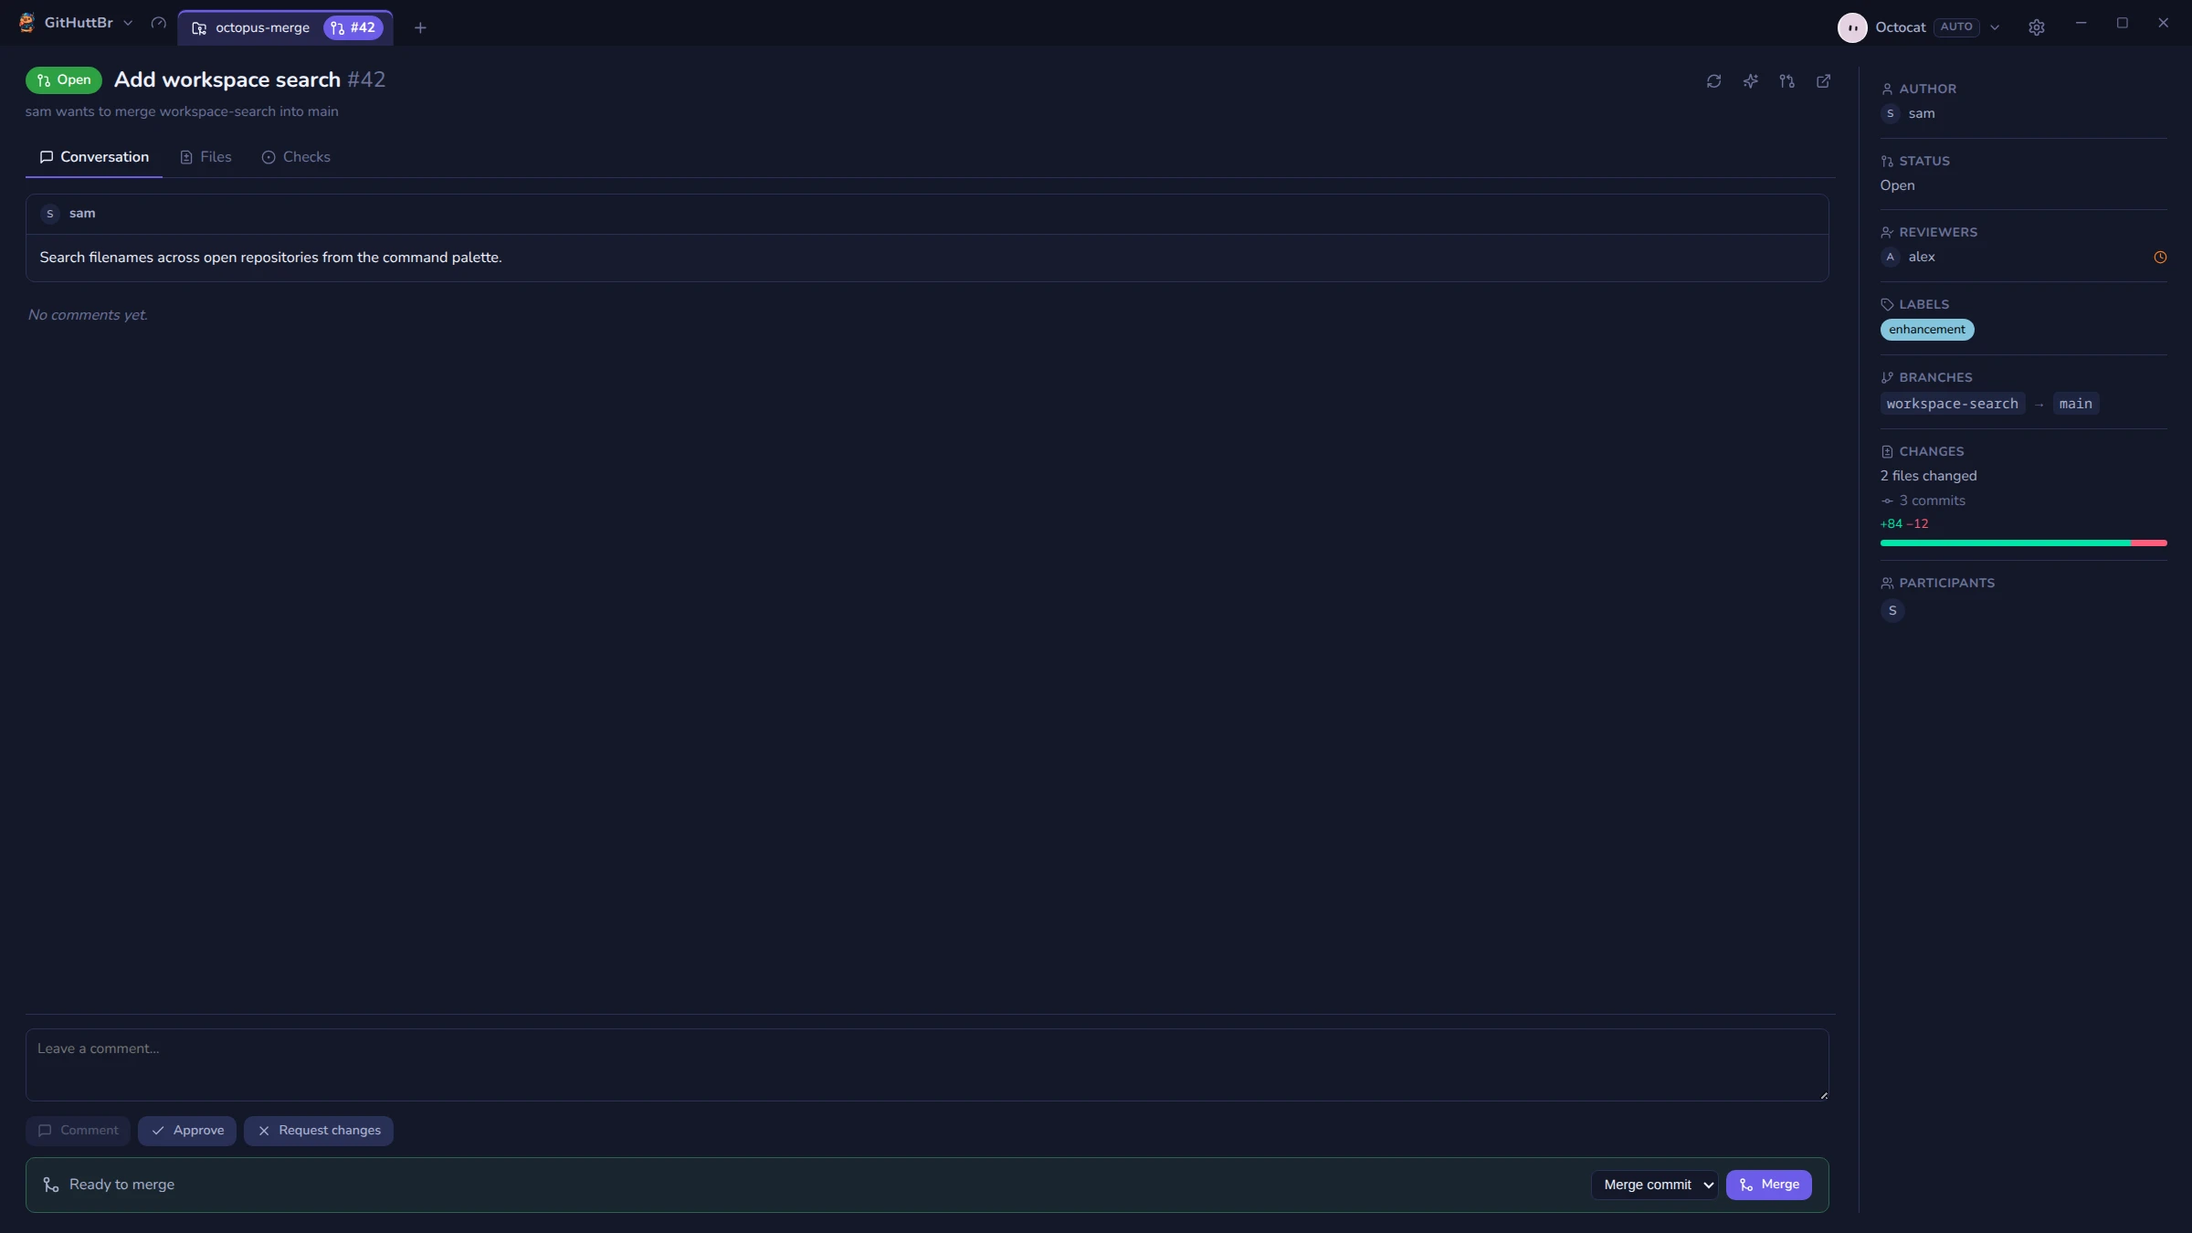
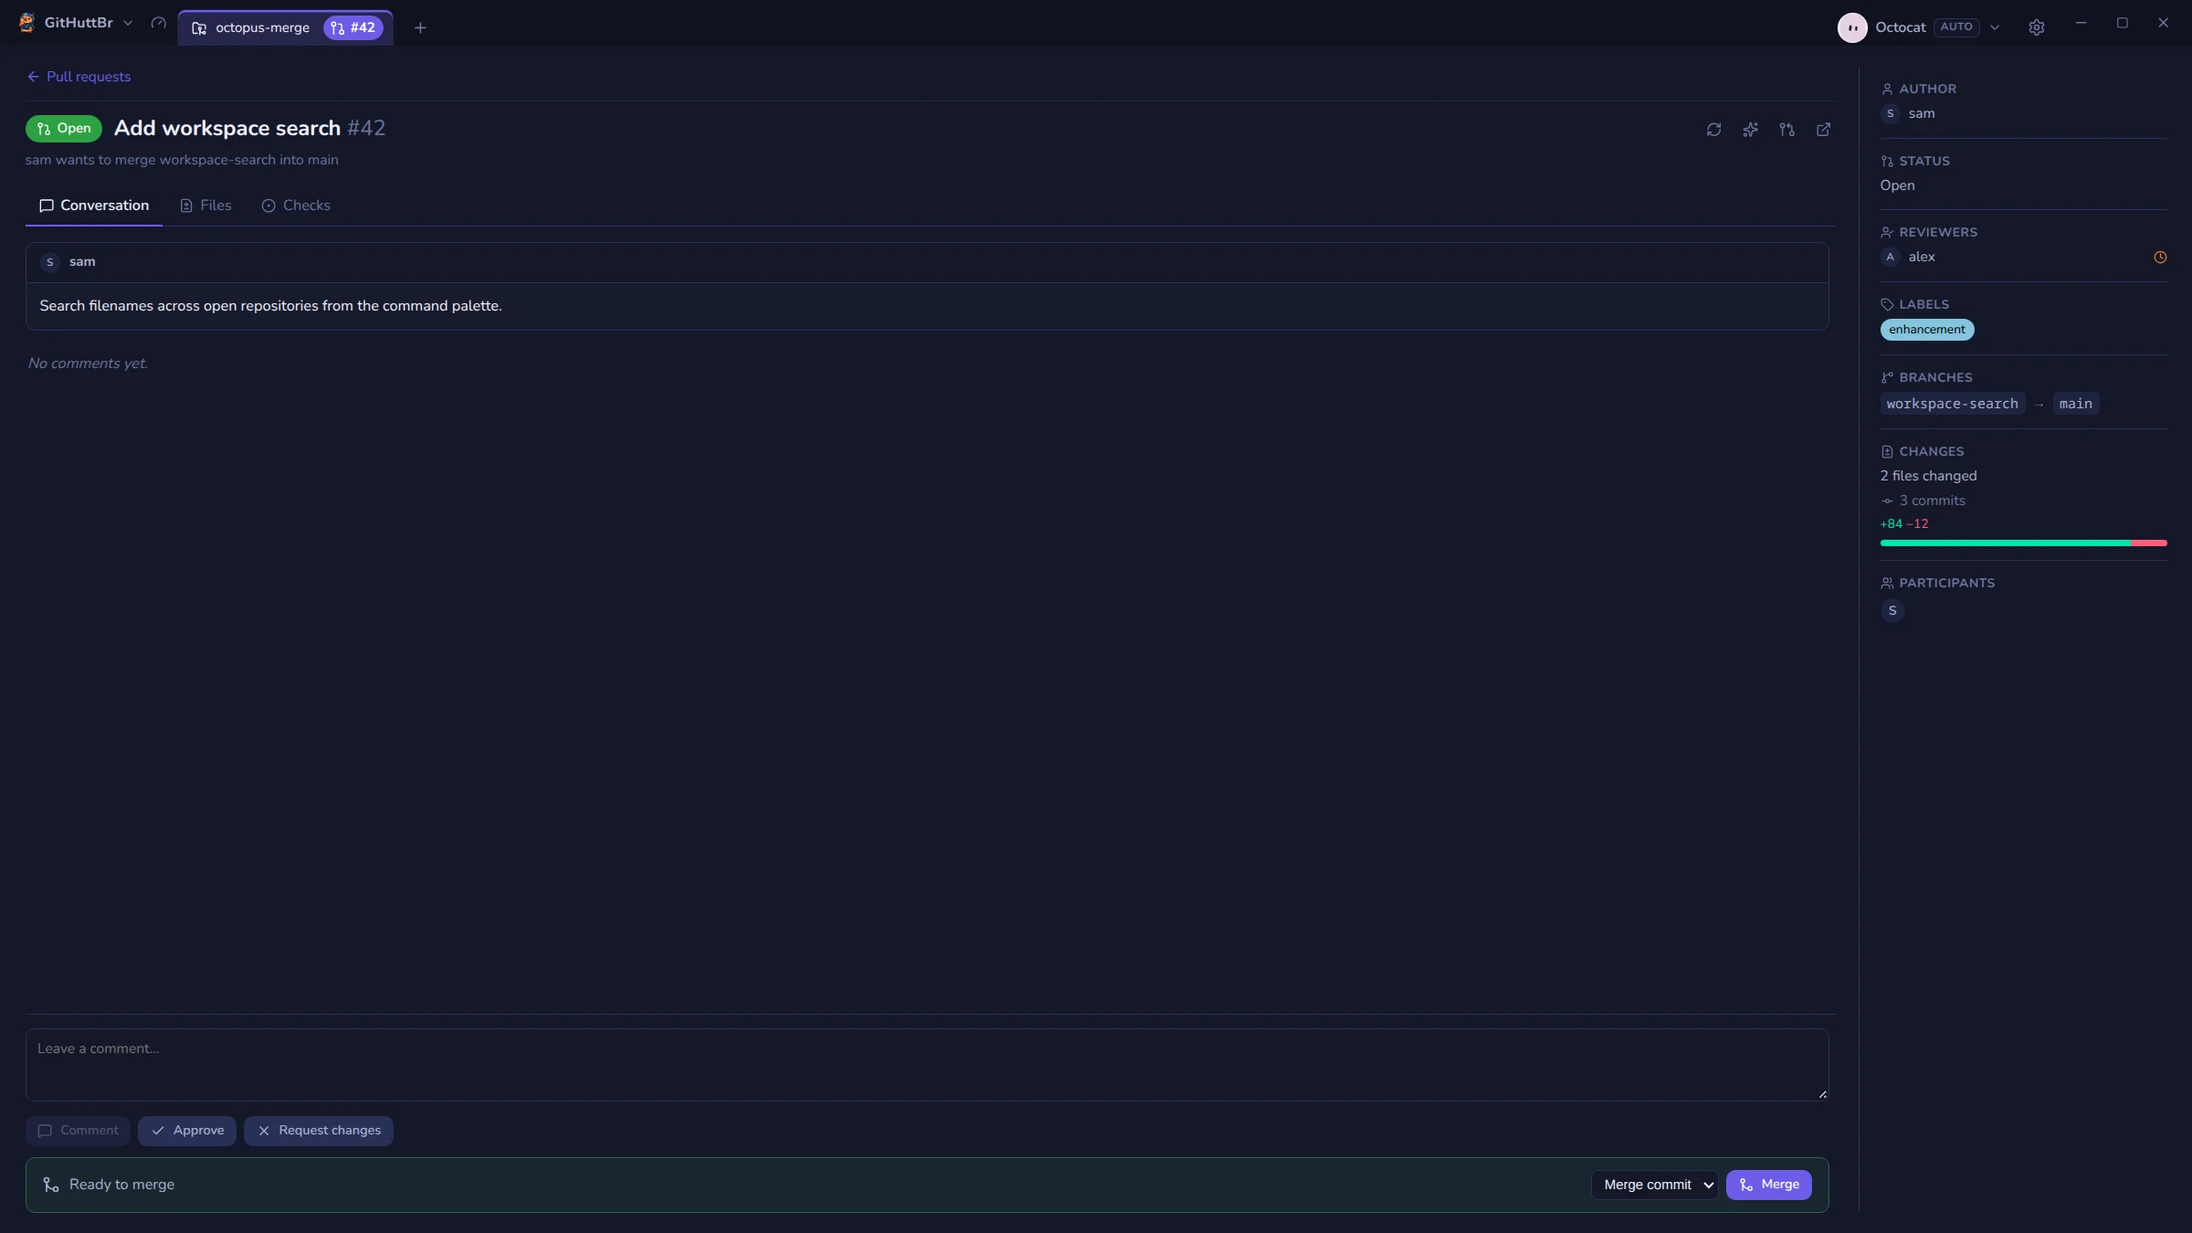
docs(prs): handbook page and screenshots for the pull requests page
What the page solves, its tabs, filters and columns, who "me" is, walking a
filtered list from inside a PR, and each host's limits — in English and
Brazilian Portuguese. Mapped in docs-map, one README line. Two shots against
a fictional GitHub repository answered by main (no network): the list
searched for "pix", and a PR opened from it with ‹ 1 of 4 ›. The PR page shot
is retaken, since its header now has the strip.

Changed region(s): [[0.0, 0.0311, 0.2188, 0.3111]]

diff --git a/docs/help/pt-BR/pull-requests.md b/docs/help/pt-BR/pull-requests.md
@@ -1,0 +1,136 @@
+---
+title: Página de pull requests
+category: Sincronização e vários repositórios
+order: 57
+summary: Todos os pull requests de um repositório numa página — por estado, filtrados por autor, revisor, destino e CI — e ‹ › para percorrer a lista filtrada de dentro de um PR.
+keywords: pull requests lista página merge requests pr mr filtro autor revisor meus aguardando minha revisão revisão pedida ci falhando branch de destino rascunhos mesclados fechados busca triagem anterior próximo alt seta navegação
+source: b44a68b542915dbac197b918b6b89d1e7de48c21
+---
+
+# Página de pull requests
+
+Um repositório movimentado tem vinte pull requests abertos ao mesmo tempo. A
+barra lateral lista todos, mas uma linha para cada um diz pouco: de quem é
+cada um, quais esperam por você, quais ficaram vermelhos. Descobrir isso
+significava abrir cada um, ler, voltar, abrir o próximo. A **página de pull
+requests** responde a essas perguntas numa tela só e, depois que você abre um
+pull request, **‹ ›** levam ao próximo da mesma lista sem precisar voltar.
+
+![A página de pull requests buscando "pix": os trechos encontrados destacados, os seus marcados com "você", um CI falhando e um rascunho](../../screenshots/pull-requests.webp)
+
+## Como abrir
+
+- O **ícone de lista** no cabeçalho **PULL REQUESTS** da barra lateral (*Ver
+  todos os pull requests*).
+- *Pull requests…* na paleta de comandos (⌘K), ou **Ferramentas → Pull
+  requests…**.
+
+Como a wiki e as [execuções de CI](ci-runs.md), a página fica presa à aba do
+repositório.
+
+## Abas
+
+| Aba | O que mostra |
+|---|---|
+| **Abertos** | Todos os pull requests abertos, rascunhos incluídos |
+| **Rascunhos** | Só os abertos marcados como rascunho |
+| **Mesclados** | Pull requests mesclados, lidos quando você abre a aba pela primeira vez |
+| **Fechados** | Fechados sem mesclar (recusados, abandonados), lidos junto com os Mesclados |
+
+As contagens de Abertos e Rascunhos vêm da lista que a barra lateral já tem.
+Mesclados e Fechados só são pedidos quando você abre uma dessas abas, e uma vez
+por sessão; **Atualizar** pede de novo.
+
+## Filtros
+
+| Filtro | Mantém |
+|---|---|
+| **Buscar** | Pull requests cujo título, descrição, branches ou número contêm todas as palavras digitadas. `#482` ou `482` encontra esse número; os trechos encontrados ficam destacados no título |
+| **Autor** | Um autor — cada um com quantos tem nesta aba. **Eu** vem primeiro |
+| **Revisor** | Um revisor pedido, ou **Pedem minha revisão** |
+| **Branch de destino** | Pull requests para essa branch |
+| **Meus** | Atalho para *Autor: Eu* |
+| **Aguardando minha revisão** | Atalho para *Revisor: pedem minha revisão* |
+| **CI falhando** | Pull requests cujos checks no head falharam |
+
+A linha abaixo dos filtros diz quantos pull requests da aba aparecem e quais
+filtros estão ligados, com **limpar filtros** para tirar todos.
+
+Os filtros ficam guardados por repositório **enquanto o app está aberto** — saia
+da página, volte, e estão como você deixou. Eles não são salvos entre
+reinícios de propósito: um filtro "meus, CI falhando" restaurado em silêncio uma
+semana depois esconderia pull requests que você não pediu para esconder.
+
+### Quem é "eu"
+
+"Eu" é a conta com que as chamadas deste repositório entram no host — o perfil
+a que o repositório está [vinculado](profiles.md), senão o ativo — perguntada
+ao próprio host. Quando o token não sabe dizer quem é (sem escopo de usuário),
+ou não há token, **Eu**, **Meus** e **Aguardando minha revisão** não aparecem.
+
+## A lista
+
+| Coluna | O que mostra |
+|---|---|
+| **#** | O número, com um ícone de aberto, rascunho, mesclado ou fechado |
+| **Título** | O título, um selo *rascunho* e quem ainda tem revisão pedida — na cor de destaque quando é você |
+| **Autor** | A foto do host, quando ele dá uma, senão a inicial, e **você** nos seus |
+| **Branches** | Origem → destino |
+| **Checks** | Os checks do head resumidos — `6/6`, `1 falhou`, `2 rodando`; passe o mouse para ver as contagens |
+| **Atualizado** | Há quanto tempo mudou pela última vez; passe o mouse para ver a data |
+
+As linhas são ordenadas pela atividade mais recente. Um clique abre a página do
+próprio pull request ([Hosting e pull requests](hosting.md)). Num host sem essa
+página, a linha abre o pull request no navegador.
+
+Num [checkout de fork](hosting.md#your-pull-requests-on-the-parent-of-a-fork),
+os seus pull requests no repositório pai também aparecem, marcados *em
+dono/repo*.
+
+## Percorrer a lista a partir de um pull request
+
+![Um pull request aberto da lista filtrada: ‹ 1 de 4 › e os filtros de onde veio](../../screenshots/pull-request-nav.webp)
+
+Um pull request aberto pela página mostra uma faixa acima do título:
+
+- **← Pull requests** volta para a lista, com os filtros como você deixou.
+- **‹ k de n ›** vai para o pull request anterior ou seguinte da lista de onde
+  você o abriu — a lista filtrada, na ordem dela, como estava no clique. As
+  dicas dizem para qual pull request cada seta leva.
+- **Alt+← / Alt+→** fazem o mesmo pelo teclado. Dá para trocar os atalhos em
+  **Configurações → Atalhos**. Eles ficam de lado enquanto o cursor está num
+  campo de texto (onde Option+← pula palavras) e enquanto o terminal tem o foco.
+
+Andar substitui a página no lugar, então passar por dez pull requests não deixa
+dez ícones na aba; abrir outra linha da lista também a substitui.
+
+Um pull request aberto **de qualquer outro lugar** — a barra lateral, uma
+notificação — percorre os pull requests abertos do repositório na ordem padrão
+da página (Abertos, sem filtros). Um que também não está nessa lista, como um
+nível mesclado de uma pilha, mostra só o caminho de volta para a lista.
+
+## Limites
+
+- **Os pull requests abertos são a lista da barra lateral.** GitHub, GitLab e
+  bitbucket.org leem os 30 primeiros; um repositório com mais mostra só esses.
+  Azure DevOps, Bitbucket Data Center e Forgejo leem todos.
+- **Mesclados e fechados são os 100 com atividade mais recente de cada** (no
+  GitHub, dos dois juntos). A aba avisa quando o host tem mais; o site dele lista
+  todos. Os checks deles não são lidos — o CI de um pull request encerrado não
+  decide mais nada, e custaria uma requisição por linha.
+- **Checks**: GitHub e Bitbucket Data Center já os trazem na lista. GitLab,
+  Azure DevOps e Forgejo são consultados uma vez por head quando a página abre,
+  pelo mesmo cache dos selos de CI do grafo. bitbucket.org não tem.
+- **Revisores**: GitHub, GitLab, Forgejo, Bitbucket Data Center e Azure DevOps
+  dizem quem ainda tem revisão pedida (Azure: uma pessoa que ainda não votou;
+  equipes ficam de fora). A lista do bitbucket.org não diz, então o filtro de
+  Revisor fica vazio lá.
+- **A busca na descrição** funciona quando a lista do host traz a descrição;
+  o bitbucket.org pode deixá-la de fora, e aí só títulos, branches e números
+  entram na busca.
+- **"Eu" no bitbucket.org e no Azure DevOps** é comparado pelo nome de
+  exibição, porque é assim que as listas deles nomeiam o autor.
+- **Atualizado no Azure DevOps** é quando o pull request foi aberto (ou
+  fechado): a lista dele não tem hora da última atividade.
+- O percurso fica guardado enquanto o app está aberto; depois de reiniciar, um
+  pull request aberto da lista percorre os pull requests abertos.

diff --git a/docs/help/pull-requests.md b/docs/help/pull-requests.md
@@ -1,0 +1,132 @@
+---
+title: Pull requests page
+category: Sync & many repos
+order: 57
+summary: Every pull request of a repository on one page — by state, filtered by author, reviewer, target and CI — and ‹ › to walk the filtered list from inside a PR.
+keywords: pull requests list page merge requests pr mr filter author reviewer mine awaiting my review review requested ci failing target branch drafts merged closed search triage previous next alt arrow navigation
+---
+
+# Pull requests page
+
+A busy repository has twenty pull requests open at once. The sidebar lists
+them, but one line each says little: whose is which, which wait on you, which
+went red. Finding out meant opening each one, reading it, going back, opening
+the next. The **pull requests page** answers those questions on one screen, and
+once you open a pull request, **‹ ›** take you to the next one of the same list
+without going back.
+
+![The pull requests page searched for "pix": the matches highlighted, your own marked "you", a failing CI and a draft](../screenshots/pull-requests.webp)
+
+## Opening it
+
+- The **list icon** on the sidebar's **PULL REQUESTS** header (*See all pull
+  requests*).
+- *Pull requests…* in the command palette (⌘K), or **Tools → Pull requests…**.
+
+Like the wiki and [CI runs](ci-runs.md), the page rides on the repository's tab.
+
+## Tabs
+
+| Tab | What it holds |
+|---|---|
+| **Open** | Every open pull request, drafts included |
+| **Drafts** | Only the open ones marked as drafts |
+| **Merged** | Merged pull requests, read when you first open the tab |
+| **Closed** | Closed without merging (declined, abandoned), read with Merged |
+
+The counts beside Open and Drafts come from the list the sidebar already holds.
+Merged and Closed are asked for only when you open one of them, and once per
+session; **Refresh** asks again.
+
+## Filters
+
+| Filter | Keeps |
+|---|---|
+| **Search** | Pull requests whose title, description, branches or number contain every word typed. `#482` or `482` finds that number; matches are highlighted in the title |
+| **Author** | One author — each listed with how many it has in this tab. **Me** is first |
+| **Reviewer** | One requested reviewer, or **Review requested from me** |
+| **Target branch** | Pull requests into that branch |
+| **Mine** | A shortcut for *Author: Me* |
+| **Awaiting my review** | A shortcut for *Reviewer: review requested from me* |
+| **CI failing** | Pull requests whose head's checks failed |
+
+The line under the filters says how many of the tab's pull requests are shown
+and which filters are on, with **clear filters** to drop them all.
+
+Filters are kept per repository **while the app runs** — leave the page, come
+back, they are as you left them. They are not saved across restarts on
+purpose: a "mine, CI failing" filter brought back silently a week later would
+hide pull requests you did not ask to hide.
+
+### Who "me" is
+
+"Me" is the account this repository's calls sign in as on the host — the
+profile the repository is [bound to](profiles.md), else the active one — asked
+of the host itself. When the token cannot say who it is (no user scope), or
+there is no token, **Me**, **Mine** and **Awaiting my review** are not offered.
+
+## The list
+
+| Column | What it shows |
+|---|---|
+| **#** | The number, with an icon for open, draft, merged or closed |
+| **Title** | The title, a *draft* badge, and who is still asked to review — in the accent colour when it is you |
+| **Author** | The host's picture where it gives one, else the initial, and **you** on your own |
+| **Branches** | Source → target |
+| **Checks** | The head's checks rolled up — `6/6`, `1 failed`, `2 running`; hover for the counts |
+| **Updated** | How long ago it last changed; hover for the date |
+
+Rows are sorted by the latest activity. A click opens the pull request's own
+page ([Hosting & pull requests](hosting.md)). On a host without that page, the
+row opens the pull request in the browser.
+
+In a [fork checkout](hosting.md#your-pull-requests-on-the-parent-of-a-fork), your pull requests on the parent are listed
+too, marked *on owner/repo*.
+
+## Walking the list from a pull request
+
+![A pull request opened from the filtered list: ‹ 1 of 4 › and the filters it came from](../screenshots/pull-request-nav.webp)
+
+A pull request opened from the page shows a strip above its title:
+
+- **← Pull requests** goes back to the list, filters as you left them.
+- **‹ k of n ›** moves to the previous or next pull request of the list you
+  opened it from — the filtered list, in its order, as it was when you clicked.
+  The tooltips name the pull request each arrow leads to.
+- **Alt+← / Alt+→** do the same from the keyboard. They are rebindable in
+  **Settings → Shortcuts**. They stand aside while the caret is in a text field
+  (where Option+← moves by word) and while the terminal has the focus.
+
+Moving replaces the page in place, so stepping through ten pull requests does
+not leave ten icons on the tab; opening another row from the list replaces it
+too.
+
+A pull request opened **from anywhere else** — the sidebar, a notification —
+walks the repository's open pull requests in the page's default order (Open,
+no filters). One that is not on that list either, such as a merged level of a
+stack, shows only the way back to the list.
+
+## Limits
+
+- **Open pull requests are the sidebar's list.** GitHub, GitLab and
+  bitbucket.org read the first 30; a repository with more shows only those.
+  Azure DevOps, Bitbucket Data Center and Forgejo read them all.
+- **Merged and closed are the 100 most recently active of each** (GitHub: of
+  both together). The tab says when the host has more; its website lists them
+  all. Their checks are not read — a finished pull request's CI decides nothing,
+  and it would cost a request per row.
+- **Checks**: GitHub and Bitbucket Data Center carry them in the list. GitLab,
+  Azure DevOps and Forgejo are asked once per head when the page opens, through
+  the same cache as the graph's CI badges. bitbucket.org has none.
+- **Reviewers**: GitHub, GitLab, Forgejo, Bitbucket Data Center and Azure DevOps
+  name who is still asked (Azure: a person who has not voted; a team is left
+  out). bitbucket.org's list does not say, so the Reviewer filter is empty there.
+- **Description search** works where the host's list carries the description;
+  bitbucket.org may leave it out, and then only titles, branches and numbers
+  are searched.
+- **"Me" on bitbucket.org and Azure DevOps** is matched by display name, since
+  that is how their lists name an author.
+- **Updated on Azure DevOps** is when the pull request was opened (or closed):
+  its list has no last-activity time.
+- The walk is remembered while the app runs; after a restart, a pull request
+  opened from the list walks the open pull requests instead.

diff --git a/README.md b/README.md
@@ -135,6 +135,7 @@ git actually is.
 | **[Untracked-branch repair](docs/help/syncing.md)** | A pull that stops on "no tracking information" offers the fix as a button — link the branch to its remote, or push it if the remote has never seen it. |
 | **[Pull requests](docs/help/hosting.md)** | Create on GitHub, GitLab, Bitbucket, Azure DevOps and Forgejo, with [reviewers, assignees and labels](docs/help/hosting.md#reviewers-assignees-and-labels) picked from the host's own lists where the host has them; the new one is [listed in the app](docs/help/hosting.md#after-you-press-create), and the browser opens only if you ask. Review on GitHub, GitLab, Forgejo, Azure DevOps and Bitbucket Data Center in a [page of its own](docs/help/hosting.md#reviewing--github-and-gitlab), on the repository's tab or group chip: conversation, each file's diff, checks, an AI review of the host's diff, and a sidebar with reviewers and their decisions, labels, branches and size. A 👁 marks the ones [waiting for your review](docs/help/hosting.md#waiting-for-your-review). Each profile [links its own account](docs/help/hosting.md#tokens) — a token, or a login git's credential helper or the GitHub CLI already holds. |
 | **[Preview a pull request](docs/help/pr-preview.md)** | Run someone else's pull request on your machine — forks included, on any host — without committing anything. |
+| **[Pull requests page](docs/help/pull-requests.md)** | Every pull request of a repository on one page — open, drafts, merged, closed — filtered by author (*Me* first), reviewer (*review requested from me*), target branch and failing CI; inside a pull request, ‹ › and Alt+← / Alt+→ walk the filtered list it came from. |
 | **[Issues, milestones & notifications](docs/help/hosting.md#issues-milestones-releases--github-and-forgejo)** | On GitHub and Forgejo: issues with a *create a branch for this issue*, milestones, releases, and the [notifications inbox](docs/help/hosting.md#notifications--github-and-forgejo) behind the toolbar bell. |
 | **[Azure Pipelines checks and logs](docs/help/hosting.md#reviewing--github-and-gitlab)** | Build-validation policies appear alongside PR statuses. Read failed tasks or job logs from the Checks tab. |
 | **[Errors that explain themselves](docs/help/syncing.md#when-the-host-refuses)** | A push refused for a missing `workflow` scope, a 100 MB file, a protected branch or a missing credential says why and what to do, in your language — git's raw text one click away. |
